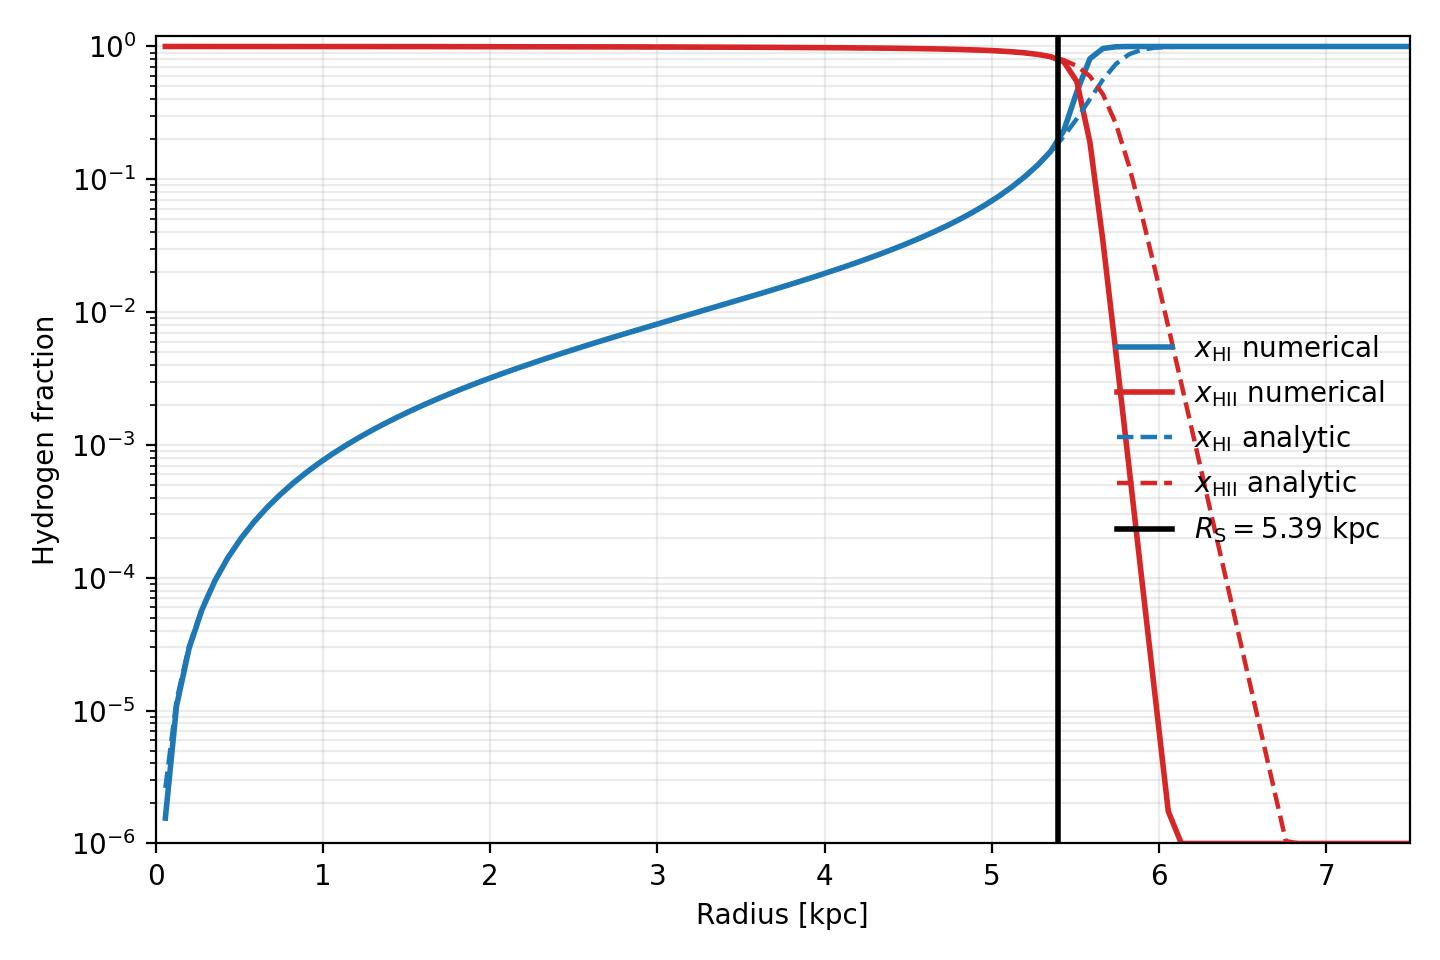
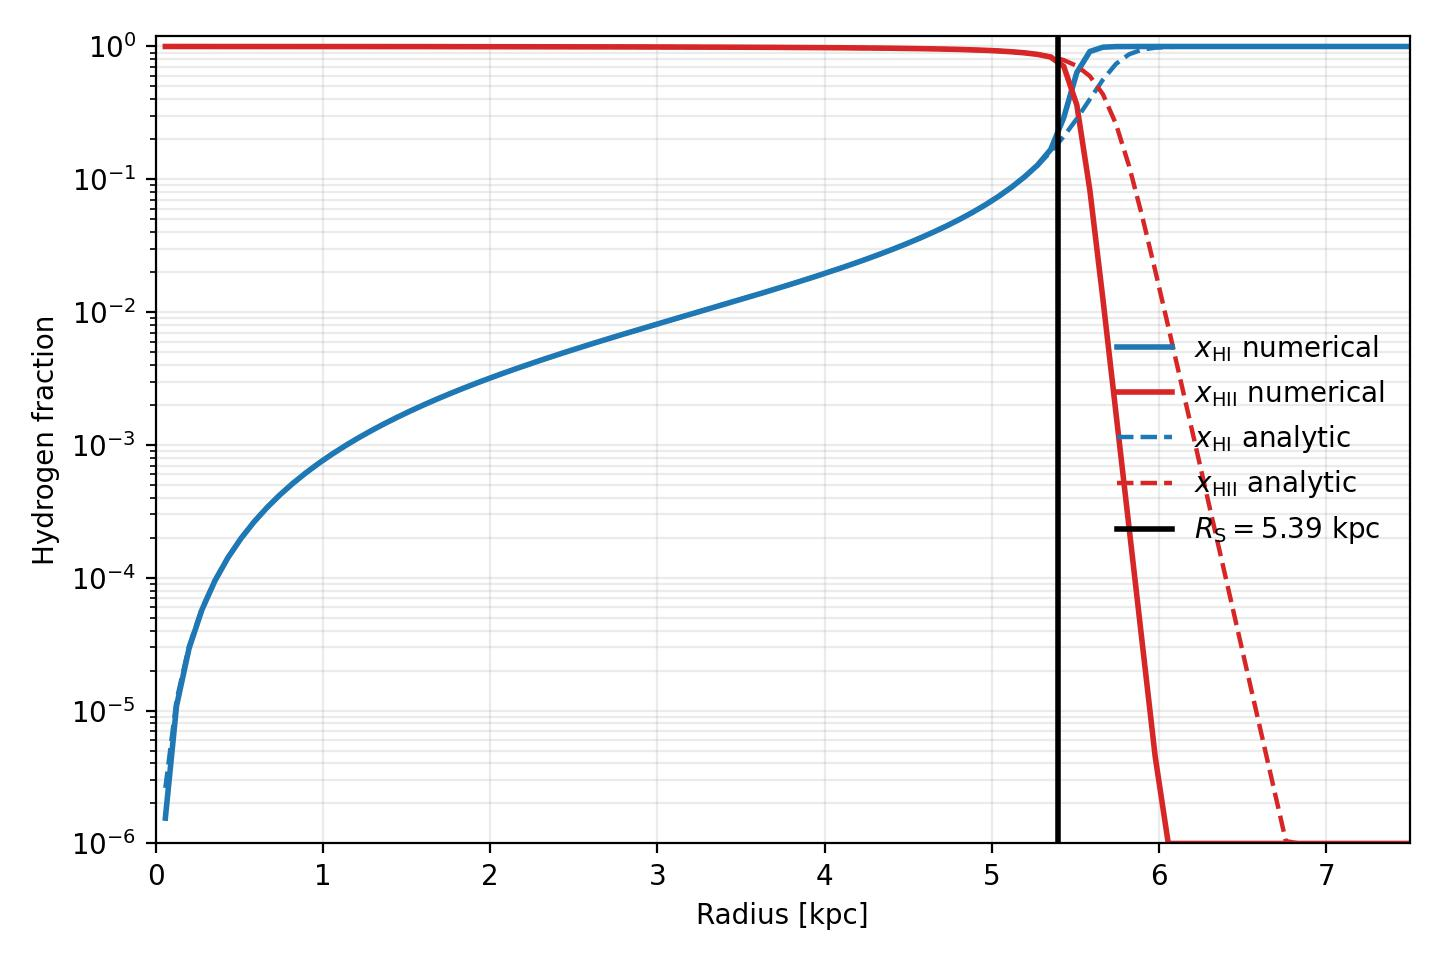
Optimize performance. More chemistry step than RT step now, but faster and more accurate.

Changed region(s): [[0.7188, 0.0312, 0.8438, 0.875]]

diff --git a/example/StaticStromgrenSphere1D/tools.py b/example/StaticStromgrenSphere1D/tools.py
@@ -15,6 +15,9 @@ from radhydropy.solver import Solver
 import stromgren_analytic as sa
 
 
+SECONDS_PER_MYR = (1.0 * unyt.Myr).to_value(unyt.s)
+
+
 def build_static_problem(config):
     par = SimpleNamespace(
         coordsys='spherical',
@@ -134,6 +137,136 @@ def total_recombination_rate(mesh, fluid, par):
     return rate.to(1.0 / unyt.s)
 
 
+def static_float_state(mesh, fluid, par, config):
+    interior = interior_slice(par)
+    boundary = mesh.boundary[interior.start : interior.stop + 1].to_value(unyt.cm)
+    return {
+        'interior': interior,
+        'boundary_cm': boundary,
+        'width_cm': np.diff(boundary),
+        'volume_cm3': mesh.vol[interior].to_value(unyt.cm**3),
+        'radius_kpc': mesh.coordinate[interior].to_value(unyt.kpc),
+        'xHI': np.asarray(fluid.xHI[interior], dtype=float).copy(),
+        'nH_cm3': config['hydrogen_number_density'].to_value(1.0 / unyt.cm**3),
+        'alpha_B_cm3_s': config['alpha_B_coefficient'].to_value(
+            unyt.cm**3 / unyt.s
+        ),
+        'sigma_cm2': config['sigma_gamma'].to_value(unyt.cm**2),
+        'source_rate_s': config['source_photon_rate'].to_value(1.0 / unyt.s),
+        'c_cm_s': rh.SPEED_OF_LIGHT.to_value(unyt.cm / unyt.s),
+    }
+
+
+def attenuation_mean(tau):
+    mean = np.ones_like(tau)
+    valid = np.abs(tau) > 1.0e-10
+    mean[valid] = -np.expm1(-tau[valid]) / tau[valid]
+    return mean
+
+
+def trace_spherical_ngamma(state):
+    tau = (
+        state['sigma_cm2']
+        * state['nH_cm3']
+        * np.clip(state['xHI'], 0.0, 1.0)
+        * state['width_cm']
+    )
+    attenuation = np.exp(-np.clip(tau, 0.0, 700.0))
+    mean_attenuation = attenuation_mean(tau)
+    face_rate = np.zeros(len(state['xHI']) + 1)
+    ngamma = np.zeros_like(state['xHI'])
+    face_rate[0] = state['source_rate_s']
+    for i in range(len(state['xHI'])):
+        face_rate[i + 1] = face_rate[i] * attenuation[i]
+        ngamma[i] = (
+            face_rate[i]
+            * state['width_cm'][i]
+            * mean_attenuation[i]
+            / state['volume_cm3'][i]
+            / state['c_cm_s']
+        )
+    return ngamma
+
+
+def neutral_fraction_rate(xHI, ngamma, state):
+    recombination_rate = state['nH_cm3'] * state['alpha_B_cm3_s']
+    photoionization_rate = state['c_cm_s'] * state['sigma_cm2'] * ngamma
+    ionized = 1.0 - xHI
+    return recombination_rate * ionized**2 - photoionization_rate * xHI
+
+
+def adaptive_timestep_seconds(xHI, ngamma, state, dtmin_s, dtmax_s, cfl):
+    rate = neutral_fraction_rate(xHI, ngamma, state)
+    scale = np.where(rate < 0.0, xHI, 1.0 - xHI)
+    valid = (np.abs(rate) > 0.0) & (scale > 0.0)
+    if not np.any(valid):
+        return dtmax_s
+    dt = cfl * np.min(scale[valid] / np.abs(rate[valid]))
+    return min(dtmax_s, max(dtmin_s, dt))
+
+
+def implicit_neutral_fraction_update(xHI, ngamma, dt_s, state):
+    xHI = np.clip(xHI, 1.0e-12, 1.0 - 1.0e-12)
+    recombination_rate = state['nH_cm3'] * state['alpha_B_cm3_s']
+    photoionization_rate = state['c_cm_s'] * state['sigma_cm2'] * ngamma
+
+    a = dt_s * recombination_rate
+    b = -(1.0 + dt_s * (photoionization_rate + 2.0 * recombination_rate))
+    c = xHI + dt_s * recombination_rate
+    discriminant = np.maximum(b**2 - 4.0 * a * c, 0.0)
+    denominator = -b + np.sqrt(discriminant)
+    updated = np.divide(
+        2.0 * c,
+        denominator,
+        out=xHI.copy(),
+        where=denominator != 0.0,
+    )
+    return np.clip(updated, 1.0e-12, 1.0 - 1.0e-12)
+
+
+def ionization_front_position_from_arrays(radius_kpc, xHI, neutral_fraction=0.5):
+    ionized = xHI <= neutral_fraction
+    if not np.any(ionized):
+        return 0.0
+    if np.all(ionized):
+        return radius_kpc[-1]
+
+    outer_ionized_index = np.where(ionized)[0][-1]
+    left = outer_ionized_index
+    right = outer_ionized_index + 1
+    x_left = xHI[left]
+    x_right = xHI[right]
+    if x_right == x_left:
+        return radius_kpc[left]
+
+    weight = (neutral_fraction - x_left) / (x_right - x_left)
+    return radius_kpc[left] + weight * (radius_kpc[right] - radius_kpc[left])
+
+
+def append_fast_history(history, state, ngamma, time_s, recombined_photons):
+    ionized = 1.0 - state['xHI']
+    ionized_atoms = np.sum(ionized * state['nH_cm3'] * state['volume_cm3'])
+    volume_photons = np.sum(ngamma * state['volume_cm3'])
+    history['time_Myr'].append(time_s / SECONDS_PER_MYR)
+    history['front_radius_kpc'].append(
+        ionization_front_position_from_arrays(state['radius_kpc'], state['xHI'])
+    )
+    history['injected_photons'].append(state['source_rate_s'] * time_s)
+    history['ionized_atoms'].append(ionized_atoms)
+    history['recombined_photons'].append(recombined_photons)
+    history['volume_photons'].append(volume_photons)
+    history['accounted_photons'].append(
+        ionized_atoms + recombined_photons + volume_photons
+    )
+
+
+def apply_fast_state_to_fluid(state, fluid):
+    interior = state['interior']
+    fluid.xHI[interior] = state['xHI']
+    fluid.ngamma[interior] = state['ngamma'] / unyt.cm**3
+    fluid.time = (state['time_s'] / SECONDS_PER_MYR) * unyt.Myr
+
+
 def append_history(history, mesh, fluid, par, config, recombined_photons):
     history['time_Myr'].append(fluid.time.to_value(unyt.Myr))
     history['front_radius_kpc'].append(
@@ -161,9 +294,23 @@ def evolve_static_chemistry(
     final_time,
     chemistry_timestep,
 ):
-    interior = interior_slice(par)
-    elapsed = 0.0 * unyt.Myr
+    state = static_float_state(mesh, fluid, par, config)
+    ngamma = trace_spherical_ngamma(state)
     recombined_photons = 0.0
+    time_s = 0.0
+    final_time_s = final_time.to_value(unyt.s)
+    dtmax_s = chemistry_timestep.to_value(unyt.s)
+    dtmin_s = config.get(
+        'chemistry_timestep_min',
+        1.0e-6 * unyt.Myr,
+    ).to_value(unyt.s)
+    timestep_cfl = config.get('chemistry_timestep_cfl', 0.1)
+    rt_update_interval = max(
+        1,
+        int(config.get('radiative_transfer_update_interval', 1)),
+    )
+    step = 0
+    rt_updates = 1
     history = {
         'time_Myr': [],
         'front_radius_kpc': [],
@@ -173,38 +320,52 @@ def evolve_static_chemistry(
         'volume_photons': [],
         'accounted_photons': [],
     }
-    append_history(history, mesh, fluid, par, config, recombined_photons)
-    while elapsed < final_time:
-        dt = min(chemistry_timestep, final_time - elapsed)
-        solver.SetBoundary(mesh, fluid, par)
-        solver.ApplyRadiativeTransfer(mesh, fluid, par)
-        recombination_rate_start = total_recombination_rate(mesh, fluid, par)
-        fluid.xHI[interior] = rh.hydrogen_neutral_fraction_implicit_update(
-            fluid.rho[interior],
-            fluid.temp[interior],
-            fluid.xHI[interior],
-            dt,
-            hydrogen_mass_fraction=par.hydrogen_mass_fraction,
-            recombination=par.hydrogen_recombination,
-            collisional_ionization=par.hydrogen_collisional_ionization,
-            ngamma=fluid.ngamma[interior],
-            sigma_gamma=par.hydrogen_sigma_gamma,
-            recombination_coefficient=par.hydrogen_alpha_B,
-            ionization_coefficient=par.hydrogen_beta,
+    append_fast_history(history, state, ngamma, time_s, recombined_photons)
+    while time_s < final_time_s:
+        dt_s = adaptive_timestep_seconds(
+            state['xHI'],
+            ngamma,
+            state,
+            dtmin_s,
+            min(dtmax_s, final_time_s - time_s),
+            timestep_cfl,
         )
-        recombination_rate_end = total_recombination_rate(mesh, fluid, par)
+        ionized_start = 1.0 - state['xHI']
+        recombination_rate_start = np.sum(
+            state['alpha_B_cm3_s']
+            * ionized_start**2
+            * state['nH_cm3']**2
+            * state['volume_cm3']
+        )
+        state['xHI'] = implicit_neutral_fraction_update(
+            state['xHI'],
+            ngamma,
+            dt_s,
+            state,
+        )
+        ionized_end = 1.0 - state['xHI']
+        recombination_rate_end = np.sum(
+            state['alpha_B_cm3_s']
+            * ionized_end**2
+            * state['nH_cm3']**2
+            * state['volume_cm3']
+        )
         recombined_photons += (
-            0.5
-            * (recombination_rate_start + recombination_rate_end)
-            * dt
-        ).to_value('')
-        elapsed += dt
-        fluid.time = elapsed
-        solver.SetBoundary(mesh, fluid, par)
-        solver.ApplyRadiativeTransfer(mesh, fluid, par)
-        append_history(history, mesh, fluid, par, config, recombined_photons)
+            0.5 * (recombination_rate_start + recombination_rate_end) * dt_s
+        )
+        time_s += dt_s
+        step += 1
+        if step % rt_update_interval == 0 or time_s >= final_time_s:
+            ngamma = trace_spherical_ngamma(state)
+            rt_updates += 1
+        append_fast_history(history, state, ngamma, time_s, recombined_photons)
+
+    state['ngamma'] = trace_spherical_ngamma(state)
+    state['time_s'] = time_s
+    apply_fast_state_to_fluid(state, fluid)
     solver.SetBoundary(mesh, fluid, par)
-    solver.ApplyRadiativeTransfer(mesh, fluid, par)
+    history['chemistry_steps'] = step
+    history['radiative_transfer_updates'] = rt_updates
     return history
 
 

diff --git a/example/StaticStromgrenSphere1D/static_stromgren_sphere1d.py b/example/StaticStromgrenSphere1D/static_stromgren_sphere1d.py
@@ -43,7 +43,10 @@ source_photon_rate = 5.0e48 / unyt.s
 boxsize = 20.0 * unyt.kpc
 plot_radius_max = 7.5 * unyt.kpc
 final_time = 500.0 * unyt.Myr
-chemistry_timestep = 1.0 * unyt.Myr
+chemistry_timestep = 5.0 * unyt.Myr
+chemistry_timestep_min = 1.0e-3 * unyt.Myr
+chemistry_timestep_cfl = 0.1
+radiative_transfer_update_interval = 5
 number_of_cells = 256
 analytic_inner_radius = 0.1 * unyt.kpc
 
@@ -58,6 +61,9 @@ def main():
         'plot_radius_max': plot_radius_max,
         'number_of_cells': number_of_cells,
         'analytic_inner_radius': analytic_inner_radius,
+        'chemistry_timestep_min': chemistry_timestep_min,
+        'chemistry_timestep_cfl': chemistry_timestep_cfl,
+        'radiative_transfer_update_interval': radiative_transfer_update_interval,
     }
     par, mesh, fluid, solver = et.build_static_problem(config)
     front_history = et.evolve_static_chemistry(
@@ -115,6 +121,13 @@ def main():
     print(
         'photon budget relative error = %.6e'
         % photon_budget['relative_error']
+    )
+    print(
+        'chemistry steps = %d, radiative-transfer updates = %d'
+        % (
+            front_history['chemistry_steps'],
+            front_history['radiative_transfer_updates'],
+        )
     )
     print('figure = %s' % figure_filename)
     print('front figure = %s' % front_figure_filename)
